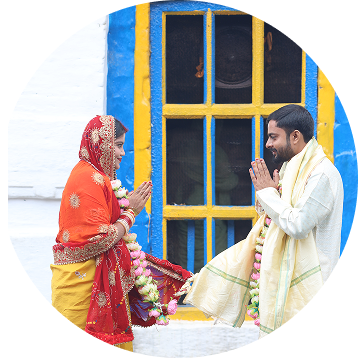
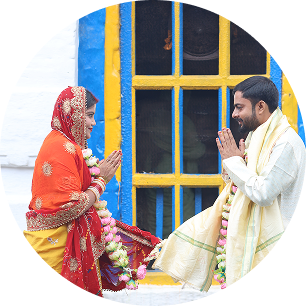
first commit

diff --git a/components/about/AboutSection.js b/components/about/AboutSection.js
@@ -7,8 +7,8 @@ const AboutSection = () => {
   return (
     <div>
       <div className="flex flex-col xl:flex-row md:gap-0 gap-10 m-auto max-w-[1440px] p-0 md:p-10">
-        <div className="hidden w-[40%] xl:flex justify-center">
-          <Image src={about_us} alt="img" className="xl:w-[28rem]" />
+        <div className="hidden w-[40%] xl:flex justify-center items-center">
+          <Image src={about_us} alt="img" className="w-[350px] h-[350px]" />
         </div>
         <div className="w-full xl:w-[60%] flex flex-col gap-10 p-0 md:p-4 px-8 md:px-4">
           <div>
